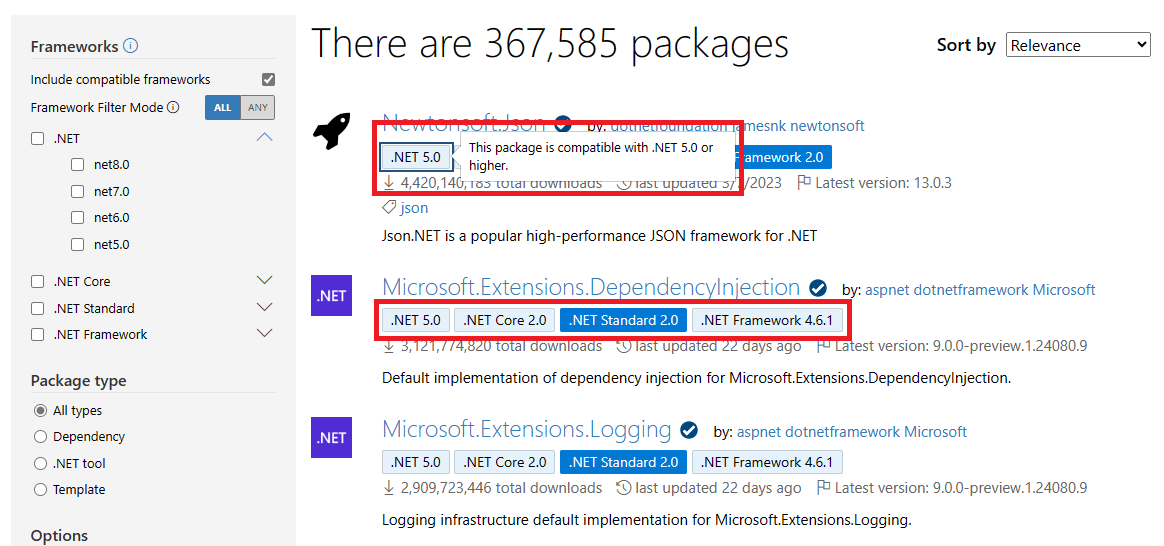
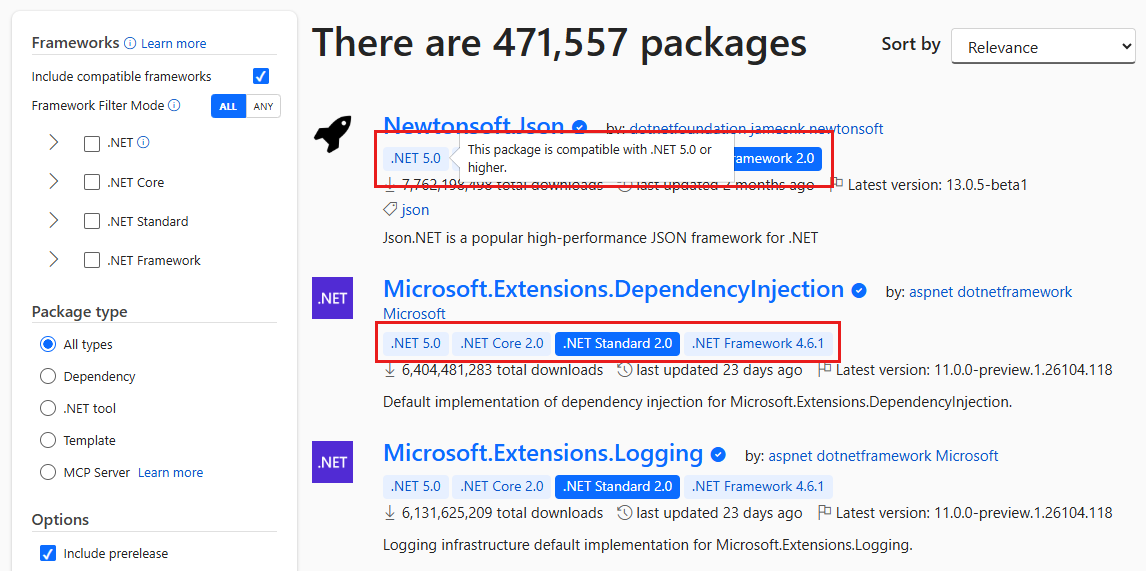
Refresh article and screenshots

diff --git a/docs/consume-packages/Finding-and-Choosing-Packages.md b/docs/consume-packages/Finding-and-Choosing-Packages.md
@@ -15,7 +15,7 @@ When you start a .NET project, or identify a functional need in your app or serv
 
 You can find packages directly at [https://nuget.org/packages](https://www.nuget.org/packages), or from the [Visual Studio Package Manager UI](install-use-packages-visual-studio.md) or [Package Manager Console](install-use-packages-powershell.md) with nuget.org as a source. All packages from nuget.org are routinely scanned for viruses.
 
-At [nuget.org/packages](https://www.nuget.org/packages), you see a list of NuGet packages. The most popular packages across all .NET projects are listed first. Some of these packages might be useful for your projects.
+At [nuget.org/packages](https://www.nuget.org/packages), you see a list of NuGet packages with the most popular packages across all .NET projects listed first. Some of these packages might be useful for your projects.
 
 :::image type="content" source="media/Finding-07-MostPopular.png" alt-text="Screenshot of the nuget.org/packages site, which lists packages and information about updates, downloads, and supported frameworks for each one.":::
 
@@ -43,7 +43,7 @@ Use the **Frameworks** filters to show packages that target specific .NET framew
 
   Alternatively, you can see packages that match **any one** of your framework filters. To do so, go to the top of the filter options. Next to **Framework Filter Mode**, select **Any**.
   - Selecting **netcoreapp3.1** and **net5.0** then shows you packages that target **either** .NET Core 3.1 or .NET 5.0.
-  - Selecting **netcoreapp3.1** and the **.NET** framework generation returns packages that target .NET Core 3.1 or any of the .NET TFMs (`net5.0` through `net8.0`).
+  - Selecting **netcoreapp3.1** and the **.NET** framework generation returns packages that target .NET Core 3.1 or any of the .NET TFMs (`net5.0` through `net10.0`).
 - For more information about how to evaluate a package's supported frameworks and its compatibility with your project, see [Determine supported frameworks](#determine-supported-frameworks), later in this article.
 
 #### Package type filter
@@ -54,19 +54,19 @@ Use the **Package type** filter to see packages of a specific type:
 - **Dependency** filters to regular NuGet packages that you can install in your project.
 - **.NET tool** filters to [.NET tools](/dotnet/core/tools/global-tools) packages that contain console applications.
 - **Template** filters to [.NET templates](/dotnet/core/install/templates) that you can use to create new projects with the [dotnet new](/dotnet/core/tools/dotnet-new) command.
-- **MCP Server** filters to Model Context Protocol (MCP) server packages.
+- **MCP Server** filters to packages that implement Model Context Protocol (MCP) servers, which you can use to connect AI applications to your data and systems.
 
-By default, NuGet lists all versions of packages, including prerelease and beta versions. In the **Options** section, deselect the **Include prerelease** checkbox to list only stable, released package versions.
+By default, NuGet lists all versions of packages, including prerelease and beta versions. In the **Options** section, clear the **Include prerelease** checkbox to list only stable, released package versions.
 
-To apply changes, select **Apply**. To get back to the defaults, select **Reset**.
+To apply changes, select **Apply**. To go back to the default values, select **Reset**.
 
 #### Sorting list
 
-Use the **Sort by** dropdown on the top-right of the page to sort the list by several criteria:
+Use the **Sort by** list in the upper-right corner of the page to sort the package list by several criteria:
 
-- **Relevance** is the default, and sorts results according to an internal scoring algorithm.
+- **Relevance** is the default value, and sorts results according to an internal scoring algorithm.
 - **Downloads** sorts the search results by the total number of downloads, in descending order.
-- **Recently updated** sorts the search results by the latest package version creation date, in descending chronological order.
+- **Recently updated** sorts the search results by the creation date of the latest package version, in descending chronological order.
 
 ### Search syntax
 
@@ -74,11 +74,11 @@ Package search queries at nuget.org, from the NuGet CLI, and from within Visual 
 
 - You can search the package `id`, `packageid`, `version`, `title`, `tags`, `author`, `description`, `summary`, or `owner` properties by using the syntax `<property>:<term>`.
 
-- Search applies to keywords and descriptions, and is case-insensitive. For example, the following strings all search the `id` property for the string `nuget.core`:
+- Searches apply to keywords and descriptions, and are case-insensitive. For example, the following strings all search the `id` property for the string `nuget.core`:
 
   `id:NuGet.Core`<br/>  `ID:nuget.core`<br/>  `Id:NUGET.CORE`
 
-- Searches on the `id` property match substrings, while `packageid` and `owner` use exact, case-insensitive matches. For example:
+- Searches on the `id` property match substrings, but `packageid` and `owner` use exact, case-insensitive matches. For example:
 
   `PackageId:jquery` searches for the exact package ID `jquery`.<br/>  `Id:jquery` searches for all package IDs that contain the string `jquery`.
 
@@ -86,7 +86,7 @@ Package search queries at nuget.org, from the NuGet CLI, and from within Visual 
 
   `id:jquery id:ui` searches for multiple terms in the `id` property.<br/>  `id:jquery tags:validation` searches for multiple properties.
 
-- Search ignores unsupported properties, so `invalid:jquery ui` is the same as searching for `ui`, and `invalid:jquery` returns all packages.
+- Searches ignore unsupported properties, so `invalid:jquery ui` is the same as searching for `ui`, and `invalid:jquery` returns all packages.
 
 ### Determine supported frameworks
 
@@ -94,19 +94,19 @@ NuGet installs a package into a project only if the package's supported .NET fra
 
 There are several ways to determine the frameworks that a package supports:
 
-- On the search page, a package's supported frameworks will appear as badges below the package ID. These badges show the lowest supported framework versions from the **.NET**, **.NET Core**, **.NET Standard**, and **.NET Framework** generations. The package will be compatible with any framework version that's equal to or higher than the badge version shown.
+- Check the search page for a package's supported frameworks, which appear as badges below the package ID. These badges show the lowest supported framework versions from the .NET, .NET Core, .NET Standard, and .NET Framework generations. The package is compatible with any framework version that's greater than or equal to the badge version shown.
 
-  'Dark blue' badges represent explicitly targeted frameworks, while 'light blue' badges represent computed compatible frameworks.
+  Dark blue badges represent explicitly targeted frameworks. Light blue badges represent computed compatible frameworks.
 
-  Clicking on a badge will redirect you to the package's details page on nuget.org. The **Frameworks** tab on the package's page will show the full list of supported frameworks.
+  Selecting a badge redirects you to the package's details page on nuget.org. On that page, the **Frameworks** tab displays the full list of supported frameworks.
 
-  ![Screenshot of the Framework badges on nuget.org's search page.](media/Finding-10-FrameworkBadgesInSearch.png)
+  :::image type="content" source="media/Finding-10-FrameworkBadgesInSearch.png" alt-text="Screenshot of nuget.org/packages. Under two package names, the rows of framework badges are highlighted, and a tooltip about compatibility is visible.":::
 
-- On the package's page at nuget.org, supported frameworks appear below the package ID and on the **Frameworks** tab, but not all packages show supported frameworks.
+- Check the package's page at nuget.org for supported frameworks. They appear below the package ID and on the **Frameworks** tab, but not all packages show supported frameworks.
 
-  ![Screenshot of the Frameworks UI and tab on the package page at nuget.org.](media/supported-frameworks.png)
+  :::image type="content" source="media/supported-frameworks.png" alt-text="Screenshot of a nuget.org package page. Under the name, the framework badges are highlighted. The Frameworks tab lists numerous .NET versions.":::
 
-- Download the package manually by selecting **Download package** under **About**. Change the file extension of the downloaded package from *.nupkg* to *.zip*, open the *.zip* folder, and examine its *lib* folder. There are subfolders for each supported framework, each named with a target framework moniker (TFM). For more information, see [Target Frameworks](../reference/target-frameworks.md). If there aren't any subfolders under *lib* and there's only a single DLL, try to install the package to discover its compatibility.
+- Download the package manually from the package page by going to the **About** section and selecting **Download package**. Change the file extension of the downloaded package from *.nupkg* to *.zip*, open the *.zip* folder, and examine its *lib* folder. There are subfolders for each supported framework, each named with a TFM. For more information, see [Target frameworks](../reference/target-frameworks.md). If there aren't any subfolders under *lib* and there's only a single DLL, try to install the package to discover its compatibility.
 
 - Try to install the package into a project by using [Install-Package](../reference/ps-reference/ps-ref-install-package.md) in the Visual Studio Package Manager Console. If the package is incompatible, the console output shows the package's supported frameworks.
 
@@ -116,8 +116,8 @@ Many package authors provide preview and beta releases as they continue to impro
 
 To list and search only stable releases:
 
-  - At nuget.org, deselect the **Include prerelease** checkbox in the advanced search panel.
-  - In the Visual Studio NuGet Package Manager UI, deselect the **Include prerelease** checkbox next to the Search box.
+- At nuget.org, go to the advanced search panel and clear the **Include prerelease** checkbox.
+- In the Visual Studio NuGet Package Manager UI, clear the **Include prerelease** checkbox next to the search box.
 
 The Visual Studio Package Manager Console, NuGet CLI, and dotnet CLI tools don't include prerelease versions by default. To include prerelease versions:
 
